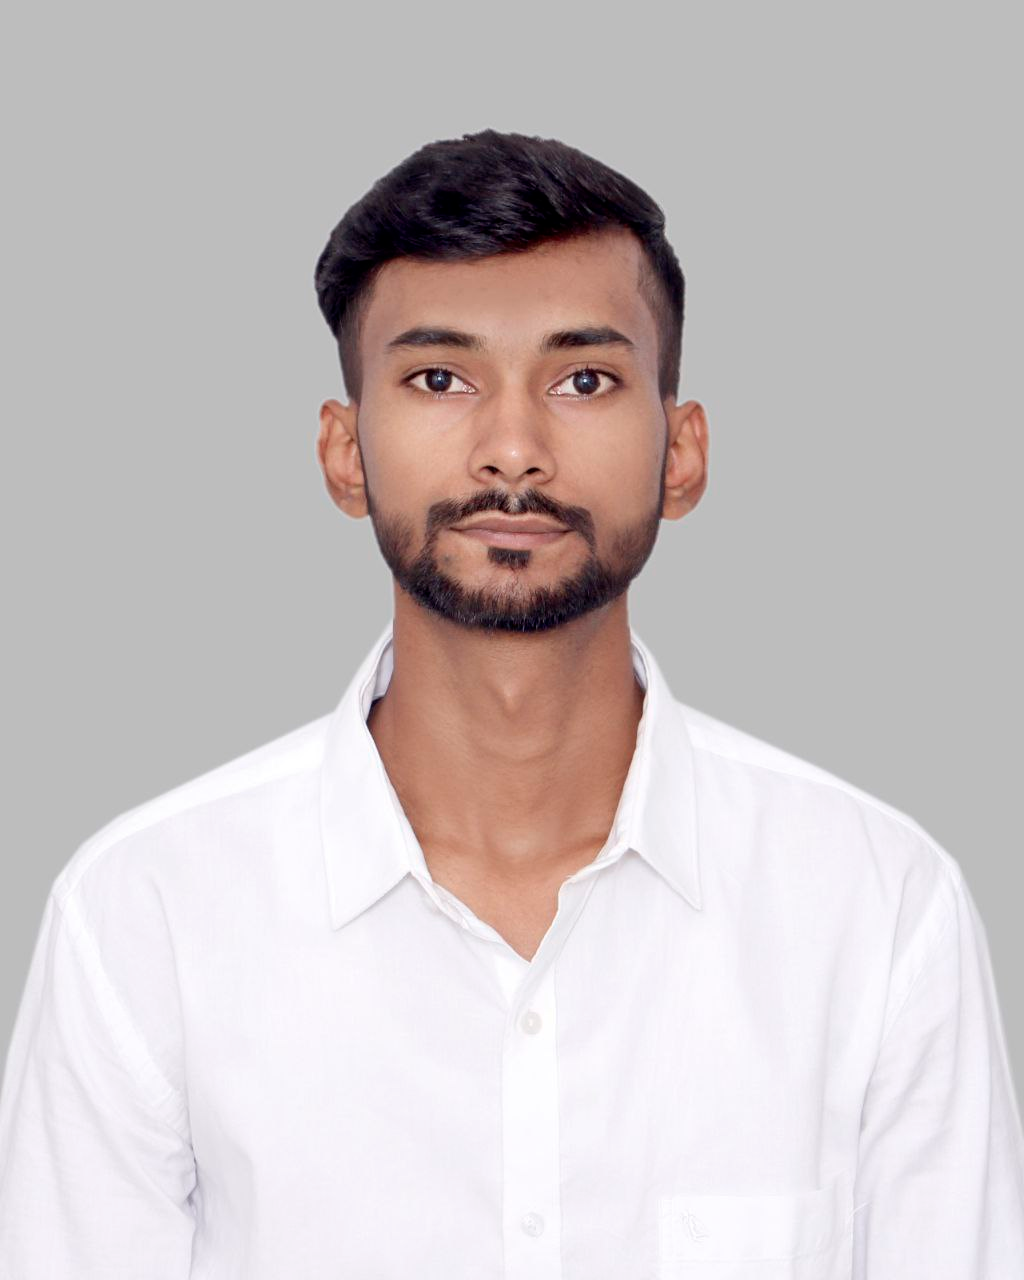
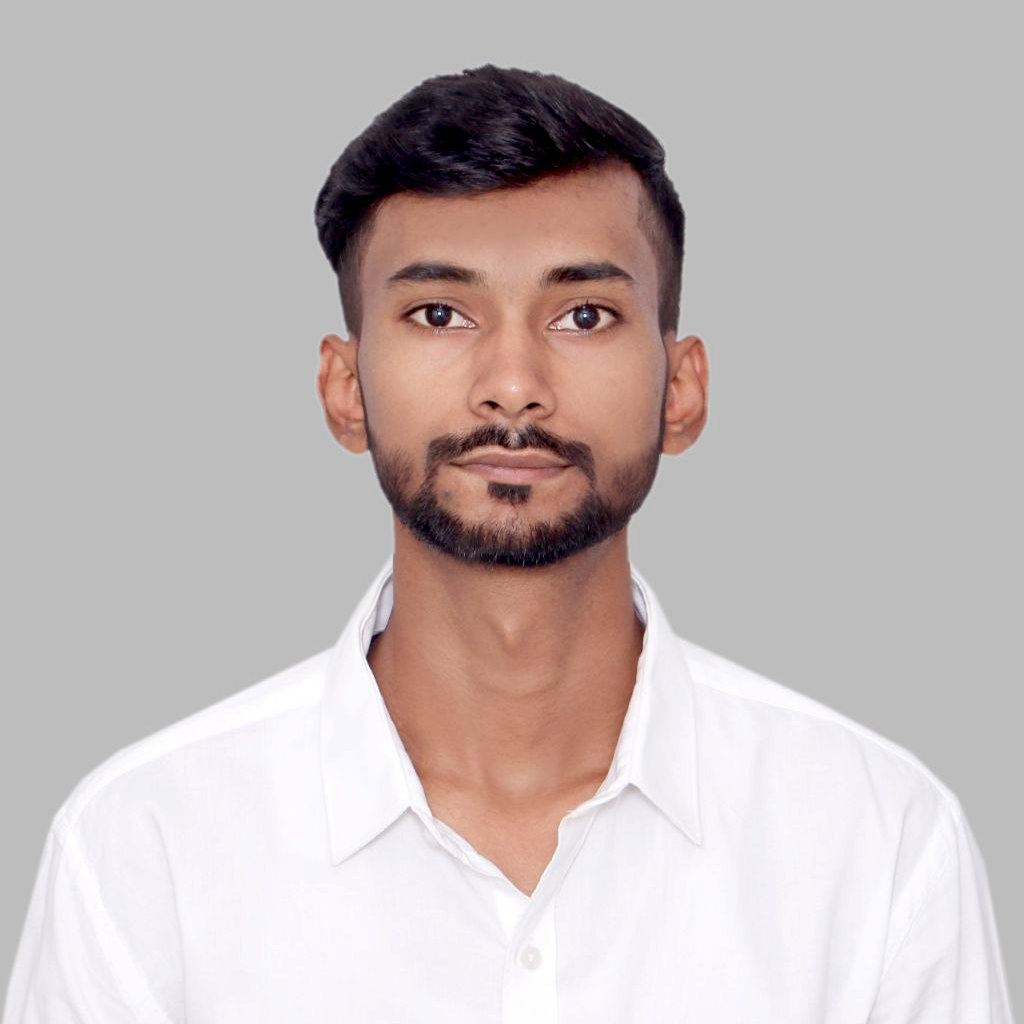
UI changes

diff --git a/src/app/components/HeroSection.jsx b/src/app/components/HeroSection.jsx
@@ -1,5 +1,6 @@
 "use client";
 import Image from "next/image";
+import Link from "next/link";
 import React from "react";
 import { TypeAnimation } from "react-type-animation";
 
@@ -8,38 +9,53 @@ const HeroSection = () => {
     <section className="lg:py-16">
       <div className="grid grid-cols-1 sm:grid-cols-12">
         <div className="col-span-7 place-self-center text-center sm:text-left justify-self-start">
-          <h1 className="text-white mb-4 text-4xl sm:text-5xl lg:text-8xl font-extrabold">
-            <span className="text-transparent bg-clip-text bg-gradient-to-r from-purple-400 to-pink-600">
-              Hello, I'm{" "}
+          <h1 className="text-white mb-4 text-4xl sm:text-5xl lg:text-8xl lg:leading-normal font-extrabold">
+            <span className="text-transparent bg-clip-text bg-gradient-to-r from-primary-400 to-secondary-600">
+              Hello, I&apos;m{" "}
             </span>
-            <br />
+            <br></br>
             <TypeAnimation
               sequence={["Ayush Maurya", 1000, "Web Devevloper", 100]}
               wrapper="span"
-              speed={0}
+              speed={50}
               repeat={Infinity}
             />
           </h1>
-          <p className="text-white text-base sm:text-lg mb-6 lg:text-xl">
-            I'm a full-stack developer
+          <p className="text-[#ADB7BE] text-base sm:text-lg mb-6 lg:text-xl">
+            I'm a full-stack developer specializing in MERN stack and Next.js.
           </p>
           <div>
-            <button className="px-6 py-3 rounded-full w-full sm:w-fit bg-gradient-to-br from-blue-500 via-purple-500 to-pink-500 hover:bg-orange-400 text-white mr-4">
+            <Link
+              href="/#contact"
+              className="px-6 inline-block py-3 w-full sm:w-fit rounded-full mr-4 bg-gradient-to-br from-primary-500 to-secondary-500 hover:bg-slate-200 text-white"
+            >
               Hire Me
-            </button>
-            <button className="px-1 py-1 inline-block w-full sm:w-fit rounded-full bg-gradient-to-br from-blue-500 via-purple-500 to-pink-500 text-white">
+            </Link>
+            <Link
+              href="/"
+              className="px-1 inline-block py-1 w-full sm:w-fit rounded-full bg-gradient-to-br from-primary-500 to-secondary-500 hover:bg-slate-800 text-white mt-3"
+            >
               <span className="block bg-[#121212] hover:bg-slate-800 rounded-full px-5 py-2">
                 Download CV
               </span>
-            </button>
+            </Link>
           </div>
         </div>
         <div className="col-span-5 place-self-center mt-4 lg:mt-0">
-          <div className="">
+          <div className="z-0 absolute mt-32 ml-24">
             <Image
-              src="/images/Ayush.png "
-              width={300}
-              height={300}
+              src="/images/Ayush.png"
+              className="rounded-full "
+              width={250}
+              height={250}
+              alt="hero"
+            />
+          </div>
+          <div className="z-0">
+            <Image
+              src="/images/graph.png"
+              width={450}
+              height={400}
               alt="hero"
             />
           </div>

diff --git a/src/app/components/AboutSection.jsx b/src/app/components/AboutSection.jsx
@@ -13,31 +13,24 @@ const AboutSection = () => {
   };
 
   return (
-    <section className="text-white">
-      <div className="md:grid md:grid-cols-2  gap-8 items-center py-8 px-4 xl:gap-16 sm:py-16 xl:px-16">
+    <section className="text-white" id="about">
+      <div className="md:grid md:grid-cols-2 gap-8 items-center py-8 px-4 xl:gap-16 sm:py-16 xl:px-16">
         <Image
           src="/images/Ayush.png "
-          width={300}
-          height={200}
+          width={500}
+          height={500}
           alt="aboutSection"
-          className="ml-16  rounded-xl"
+          className=""
         />
         <div>
-          <h2 className="text-4xl font-bold text-white mb-4 ">About Me</h2>
-          <p className="text- lg:text-lg">
-            I'm a dedicated MERN stack developer with a Master's degree in
-            Computer Applications (MCA) and a strong foundation in computer
-            science. My programming journey began during my academic years,
-            where I developed a deep understanding of software development
-            principles and methodologies. Throughout my MCA program, I honed my
-            skills in data structures, algorithms, and software engineering
-            practices, laying the groundwork for my technical proficiency.
-            <br /> <br />I am passionate about full-stack web development,
-            specializing in the MERN stack and Next.js. Leveraging MongoDB,
-            Express.js, React.js, Node.js, and Next.js, I contribute to dynamic,
-            responsive web applications. My commitment to continuous learning
-            keeps me updated with the latest trends and best practices, enabling
-            me to tackle new challenges with enthusiasm and dedication.
+          <h2 className="text-4xl font-bold text-white mb-4">About Me</h2>
+          <p className="text-base lg:text-lg text-justify		">
+            I am a full-stack developer specializing in MERN stack and Next.js.
+            I have been working in the field of web development for the past 2
+            years. I have a passion for learning and sharing my knowledge with
+            others as publicly as possible. I write articles and tutorials about
+            web development on my blog. I am a self-taught developer and believe
+            in the power of community and open-source.
           </p>
         </div>
       </div>

diff --git a/src/app/components/Portfolio.jsx b/src/app/components/Portfolio.jsx
@@ -1,0 +1,59 @@
+"use client";
+import React, { useRef } from "react";
+import { motion, useScroll, useSpring } from "framer-motion";
+
+const items = [
+  {
+    id: 1,
+    title: "Homify",
+    imgUrl: "/images/HomePage1.png",
+    description: "This is a portfolio project",
+  },
+  {
+    id: 2,
+    title: "ThinkInk",
+    imgUrl: "/images/HomePage2.png",
+    description: "This is a portfolio project",
+  },
+  {
+    id: 3,
+    title: "Portfolio Website",
+    imgUrl: "/images/HomePage.png",
+    description: "This is a portfolio project",
+  },
+  {
+    id: 4,
+    title: "Next.js Blog",
+    imgUrl: "/images/HomePage.png",
+    description: "This is a portfolio project",
+  },
+];
+
+const Single = ({ item }) => {
+  return <section>{item.title}</section>;
+};
+
+const Portfolio = () => {
+  const ref = useRef();
+
+  const { scrollYProgress } = useScroll({
+    target: ref,
+    offset: ["end end", "start start"],
+  });
+
+  const scaleX = useSpring(scrollYProgress, { stiffness: 100, damping: 30 });
+
+  return (
+    <div className="portfolio" ref={ref}>
+      <div className="progress">
+        <h1>My Projects</h1>
+        <motion.div style={{scaleX}} className="progressBar"></motion.div>
+      </div>
+      {items.map((item) => (
+        <Single key={item.id} item={item} />
+      ))}
+    </div>
+  );
+};
+
+export default Portfolio;

diff --git a/src/app/page.js b/src/app/page.js
@@ -4,6 +4,7 @@ import AboutSection from "./components/AboutSection";
 import ProjectSection from "./components/ProjectSection";
 import EmailSection from "./components/EmailSection";
 import Footer from "./components/Footer";
+import Portfolio from "./components/Portfolio";
 
 export default function Home() {
   return (
@@ -12,7 +13,8 @@ export default function Home() {
       <div className="container mt-24 mx-auto px-12 py-4">
         <HeroSection />
         <AboutSection />
-        <ProjectSection />
+        <Portfolio />
+        {/* <ProjectSection /> */}
         <EmailSection />
         <Footer />
       </div>

diff --git a/src/app/components/ProjectCard.jsx b/src/app/components/ProjectCard.jsx
@@ -6,8 +6,8 @@ const ProjectCard = ({ imgUrl, title, description, gitUrl, previewUrl }) => {
   return (
     <div className="grid grid-flow-col grid-cols-3">
       <div
-        className="h-52 md:h-72 rounded-t-xl relative group "
-        style={{ background: `url(${imgUrl})`, backgroundSize: "cover" }}
+        className="h-52 md:h-72 rounded-t-xl  bg-cover "
+        style={{ background: `url(${imgUrl})` }}
       ></div>
       <div className="text-white rounded-b-xl mt-3 bg-[#181818]py-6 px-4 ">
         <h5 className="text-xl font-semibold mb-2">{title}</h5>

diff --git a/tailwind.config.js b/tailwind.config.js
@@ -1,4 +1,5 @@
 /** @type {import('tailwindcss').Config} */
+const colors = require("tailwindcss/colors");
 module.exports = {
   content: [
     "./src/pages/**/*.{js,ts,jsx,tsx,mdx}",
@@ -12,6 +13,11 @@ module.exports = {
         "gradient-conic":
           "conic-gradient(from 180deg at 50% 50%, var(--tw-gradient-stops))",
       },
+    },
+    colors: {
+      ...colors,
+      primary: colors.purple,
+      secondary: colors.pink,
     },
   },
   plugins: [],

diff --git a/src/app/components/ProjectSection.jsx b/src/app/components/ProjectSection.jsx
@@ -8,7 +8,7 @@ const projectsData = [
     id: 1,
     title: "React  Website",
     description: "Project 1 description",
-    image: "/images/Ayush.png",
+    image: "/images/HomePage.png",
     gitUrl: "/",
     previewUrl: "/",
   },
